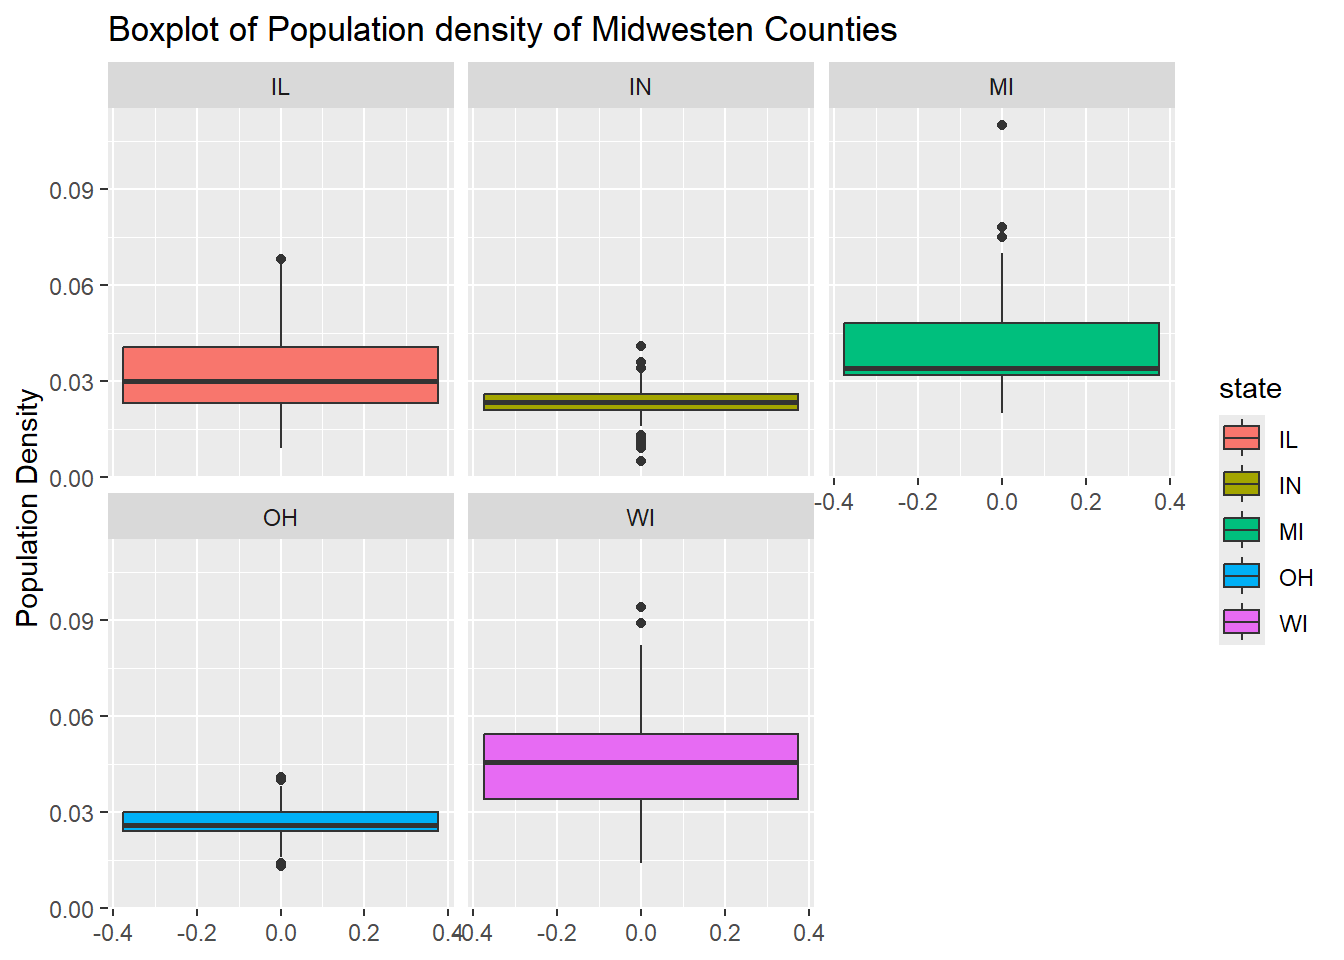
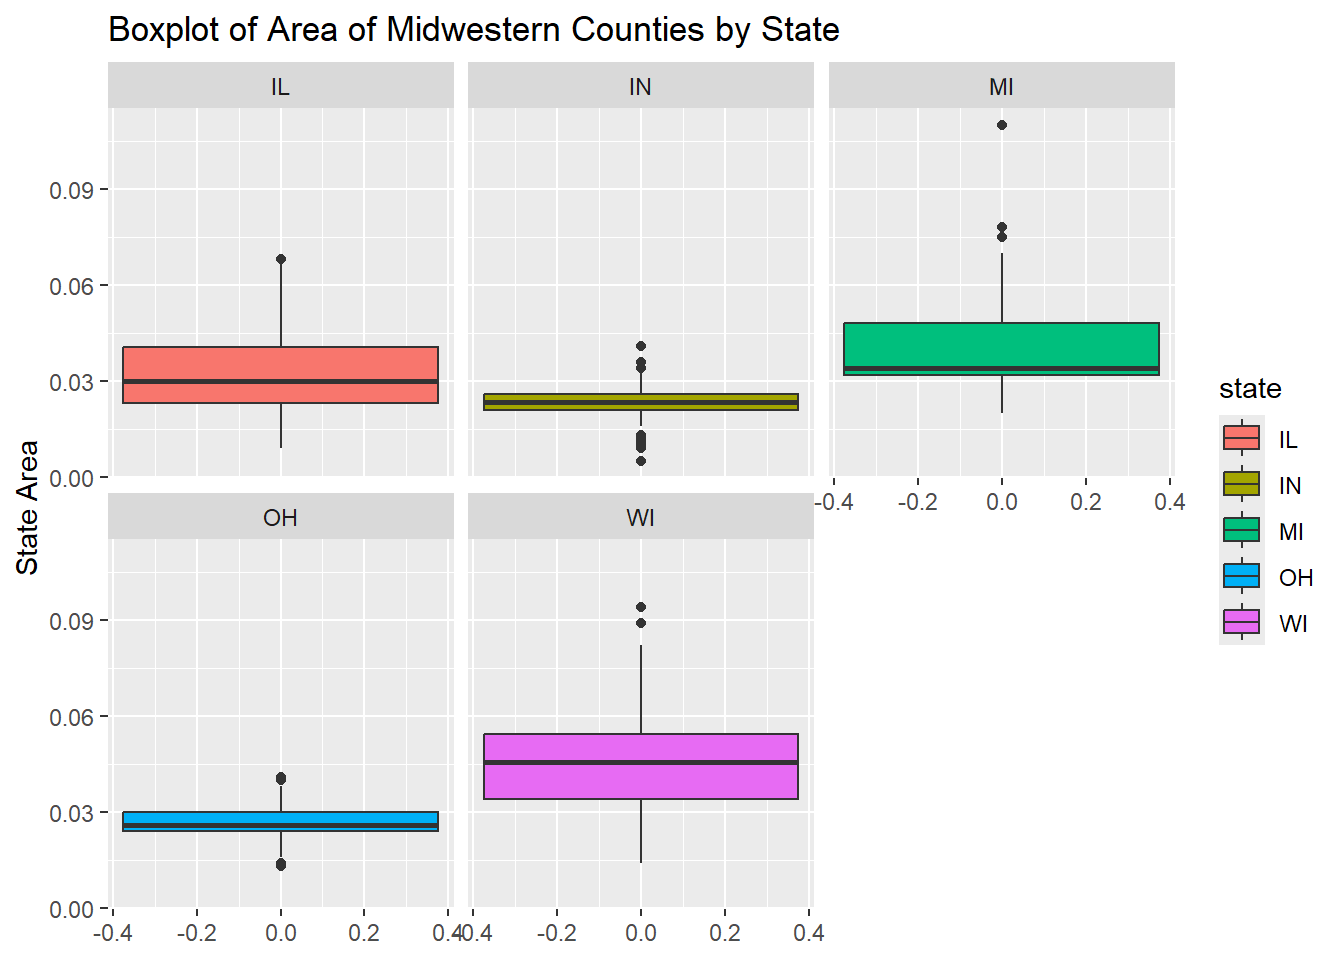
Completed Question 6

Changed region(s): [[0.1875, 0.0, 0.6562, 0.0625], [0.0, 0.4062, 0.0312, 0.6562]]

diff --git a/lab-1.html b/lab-1.html
@@ -275,8 +275,8 @@ pre > code.sourceCode > span > a:first-child::before { text-decoration: underlin
 <span id="cb16-2"><a href="#cb16-2" aria-hidden="true" tabindex="-1"></a>  <span class="fu">geom_boxplot</span>() <span class="sc">+</span></span>
 <span id="cb16-3"><a href="#cb16-3" aria-hidden="true" tabindex="-1"></a>  <span class="fu">facet_wrap</span>(<span class="sc">~</span>state)<span class="sc">+</span></span>
 <span id="cb16-4"><a href="#cb16-4" aria-hidden="true" tabindex="-1"></a>  <span class="fu">labs</span>(</span>
-<span id="cb16-5"><a href="#cb16-5" aria-hidden="true" tabindex="-1"></a>    <span class="at">y =</span> <span class="st">"Population Density"</span>,</span>
-<span id="cb16-6"><a href="#cb16-6" aria-hidden="true" tabindex="-1"></a>    <span class="at">title =</span> <span class="st">"Boxplot of Population density of Midwesten Counties"</span></span>
+<span id="cb16-5"><a href="#cb16-5" aria-hidden="true" tabindex="-1"></a>    <span class="at">y =</span> <span class="st">"State Area"</span>,</span>
+<span id="cb16-6"><a href="#cb16-6" aria-hidden="true" tabindex="-1"></a>    <span class="at">title =</span> <span class="st">"Boxplot of Area of Midwestern Counties by State"</span></span>
 <span id="cb16-7"><a href="#cb16-7" aria-hidden="true" tabindex="-1"></a>  )</span></code><button title="Copy to Clipboard" class="code-copy-button"><i class="bi"></i></button></pre></div>
 <div class="cell-output-display">
 <div>
@@ -290,6 +290,24 @@ pre > code.sourceCode > span > a:first-child::before { text-decoration: underlin
 </section>
 <section id="question-6" class="level3">
 <h3 class="anchored" data-anchor-id="question-6">Question 6</h3>
+<div class="cell">
+<div class="sourceCode cell-code" id="cb17"><pre class="sourceCode r code-with-copy"><code class="sourceCode r"><span id="cb17-1"><a href="#cb17-1" aria-hidden="true" tabindex="-1"></a>midwest <span class="sc">|&gt;</span></span>
+<span id="cb17-2"><a href="#cb17-2" aria-hidden="true" tabindex="-1"></a>  <span class="fu">mutate</span>(<span class="at">metro =</span> <span class="fu">if_else</span>(inmetro <span class="sc">==</span> <span class="dv">1</span>, <span class="st">"Yes"</span>, <span class="st">"No"</span>)) <span class="sc">|&gt;</span> </span>
+<span id="cb17-3"><a href="#cb17-3" aria-hidden="true" tabindex="-1"></a><span class="fu">ggplot</span>(<span class="fu">aes</span>(<span class="at">x =</span> state, <span class="at">fill=</span> metro)) <span class="sc">+</span></span>
+<span id="cb17-4"><a href="#cb17-4" aria-hidden="true" tabindex="-1"></a>  <span class="fu">geom_bar</span>(<span class="at">position =</span> <span class="st">"fill"</span>) <span class="sc">+</span></span>
+<span id="cb17-5"><a href="#cb17-5" aria-hidden="true" tabindex="-1"></a>  <span class="fu">labs</span>(</span>
+<span id="cb17-6"><a href="#cb17-6" aria-hidden="true" tabindex="-1"></a>    <span class="at">y =</span> <span class="st">"Proportion of Counties"</span>,</span>
+<span id="cb17-7"><a href="#cb17-7" aria-hidden="true" tabindex="-1"></a>    <span class="at">title =</span> <span class="st">"Plot of Proportion of Counties in a Metropolitan Area by State"</span></span>
+<span id="cb17-8"><a href="#cb17-8" aria-hidden="true" tabindex="-1"></a>  )</span></code><button title="Copy to Clipboard" class="code-copy-button"><i class="bi"></i></button></pre></div>
+<div class="cell-output-display">
+<div>
+<figure class="figure">
+<p><img src="lab-1_files/figure-html/unnamed-chunk-10-1.png" class="img-fluid figure-img" width="672"></p>
+</figure>
+</div>
+</div>
+</div>
+<p>Ohio has the greatest percentage of counties in metro area, followed by Indiana, Michigan, Wisconsin, and Illinois with percentages of around 45%, 40%, 30%, 29% and 29% respectively.</p>
 </section>
 <section id="question-7" class="level3">
 <h3 class="anchored" data-anchor-id="question-7">Question 7</h3>
